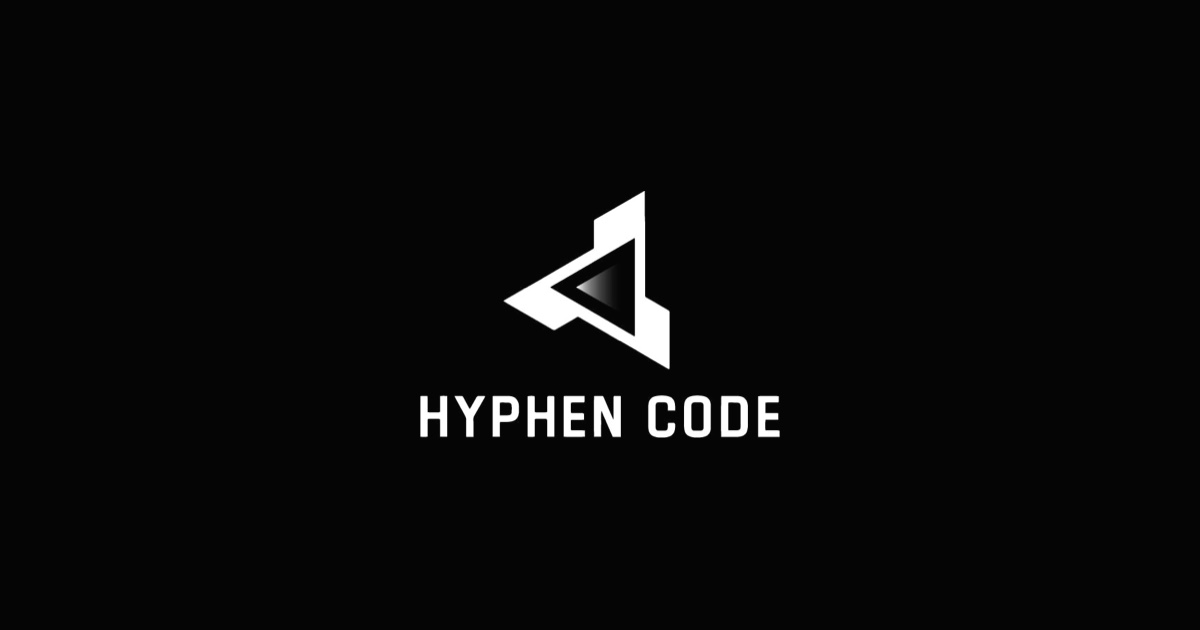
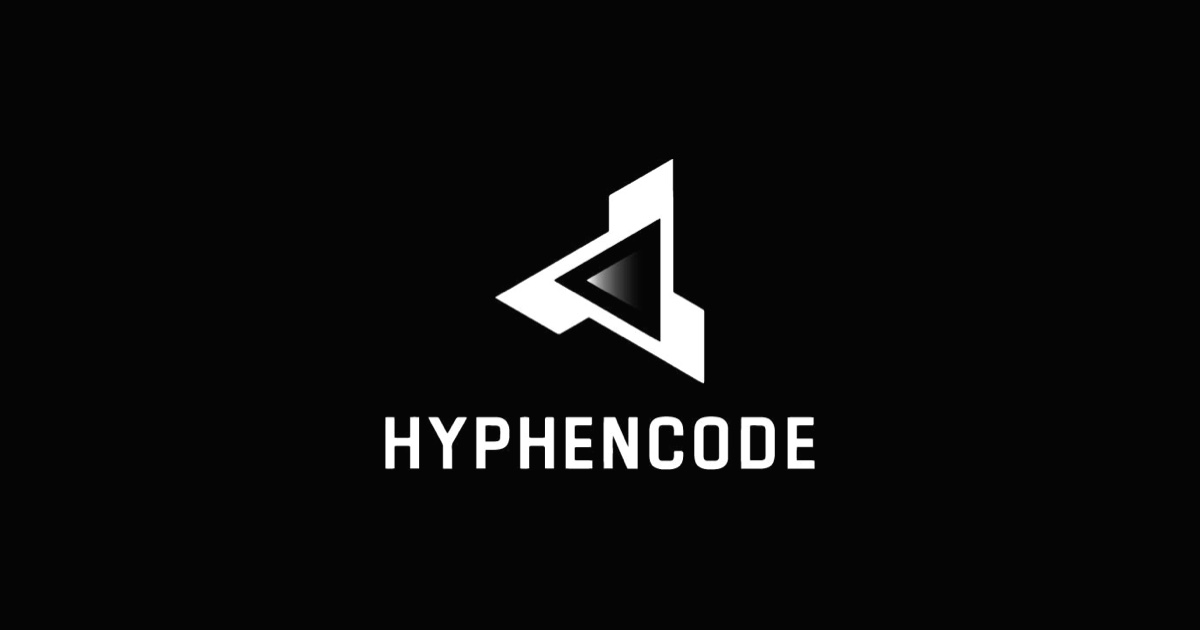
Close the wordmark word space: HYPHEN CODE -> HYPHENCODE
The site brand is one word but the logo lettering was two, most visibly on the
social card where the lockup is the whole image.

Rebuilt from the original lettering rather than re-typeset: the 39px word space
is closed to 13px, which matches the 12-14px gaps on the letters either side of
the join, so the typeface, weight and letterforms are untouched. Measured gaps
across the wordmark are now 11,10,11,12,12,13,12,14,14 - the join sits inside
the natural progression.

Adds assets/logo-lockup.png (transparent) and regenerates the og-image from it.
The source HYPHEN CODE.jpg is left alone as the master.

Changed region(s): [[0.3083, 0.2413, 0.6783, 0.754]]

diff --git a/README.md b/README.md
@@ -18,6 +18,7 @@ hyphen-code/
 │   ├── favicon-32-dark.png  # dark mark, for light browser chrome
 │   ├── favicon-512.png      # large icon / social preview
 │   ├── apple-touch-icon.png # 180x180, brand background baked in (iOS ignores alpha)
+│   ├── logo-lockup.png      # mark + HYPHENCODE wordmark, transparent
 │   └── og-image.jpg         # 1200x630 social card
 ├── robots.txt
 ├── sitemap.xml
@@ -27,6 +28,12 @@ hyphen-code/
 The favicons are generated from `HYPHEN CODE.jpg` by cropping to the mark and
 mapping luminance to alpha, so the black backdrop drops out. If the logo ever
 changes, regenerate all five - don't hand-edit them.
+
+Note the source file still reads **HYPHEN CODE** (two words). `logo-lockup.png`
+and `og-image.jpg` are rebuilt from that same lettering with the 39px word space
+closed to 13px, matching the 12-14px gaps on either side - so the wordmark reads
+**HYPHENCODE** in the original typeface rather than being re-typeset. If you have
+the vector original, updating it there is the cleaner long-term fix.
 
 ### Tech stack icons
 
